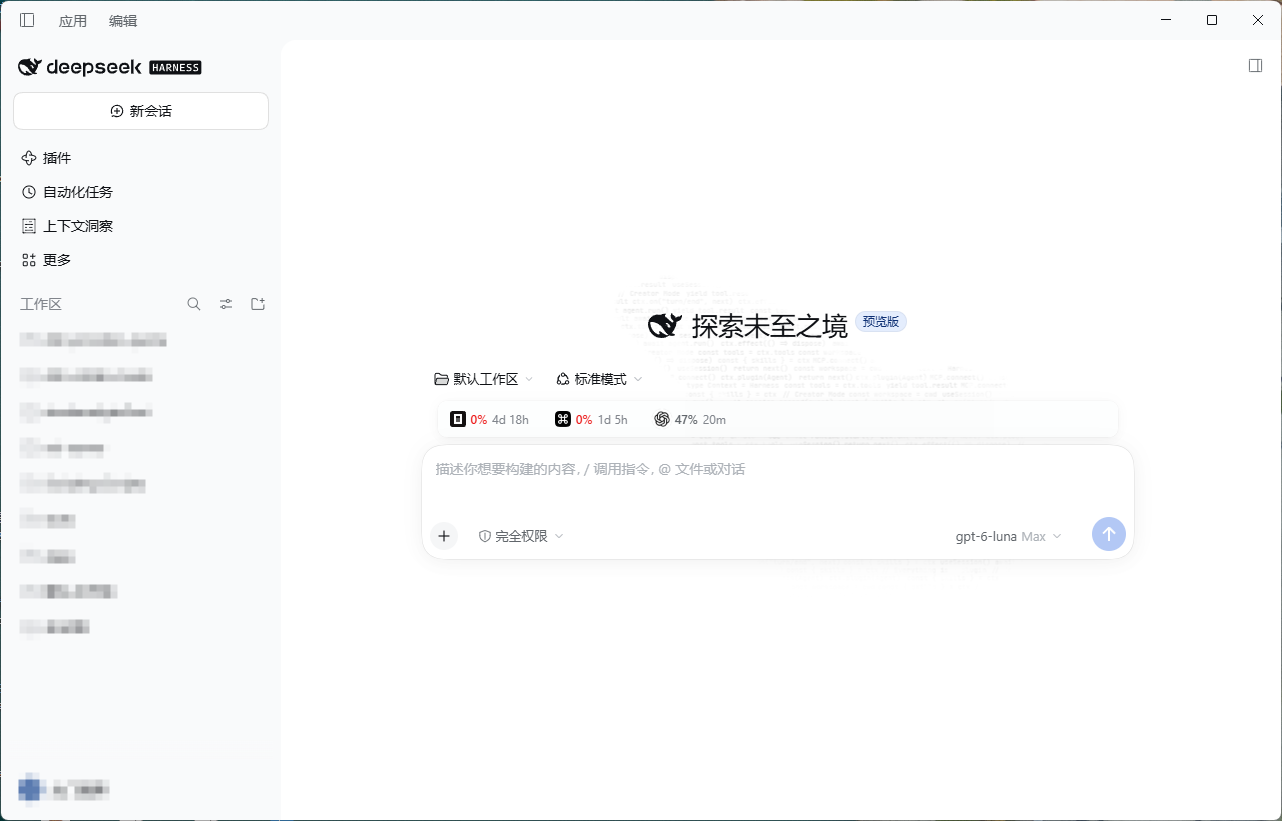
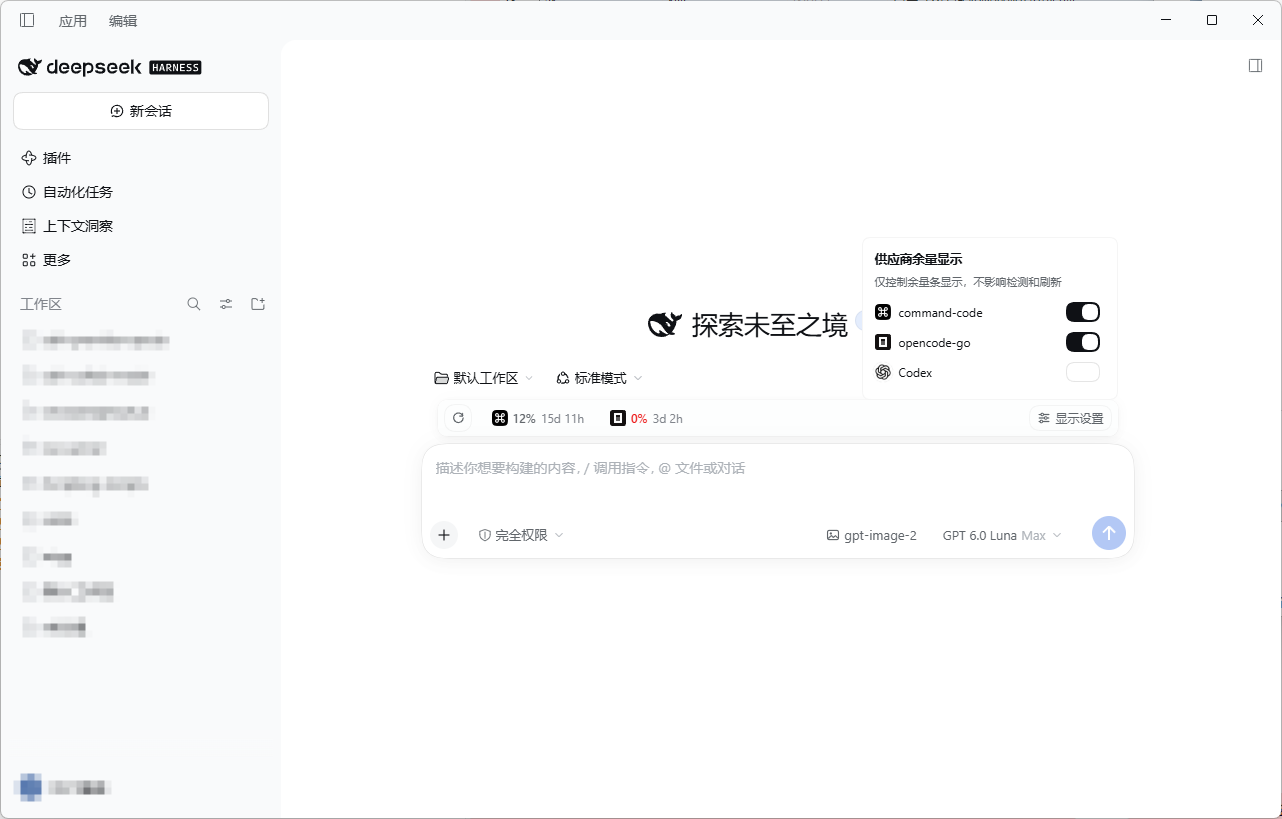
feat: add per-provider quota visibility toggles

diff --git a/client.js b/client.js
@@ -24,6 +24,8 @@ window.__ModuleLoader__.load({
     const NS = 'provider-quota'
     const STATE_PATH = '/provider-quota/state'
     const MIN_POLL_MS = 30_000
+    const PROVIDER_VISIBILITY_KEY = 'dsh-provider-quota:provider-visibility'
+    const LEGACY_LOCAL_VISIBILITY_KEY = 'dsh-provider-quota:local-provider-visibility'
 
     const copy = {
       zh: {
@@ -54,6 +56,11 @@ window.__ModuleLoader__.load({
         plan: '套餐 {tier}',
         fetched: '更新于 {time}',
         noWindows: '没有可显示的窗口',
+        providerDisplay: '显示设置',
+        providerQuotaTitle: '供应商余量显示',
+        providerQuotaHint: '仅控制余量条显示，不影响检测和刷新',
+        manageProviderDisplay: '管理供应商余量显示',
+        showProviderQuota: '显示 {provider} 余量',
       },
       en: {
         label: 'Quota',
@@ -83,6 +90,11 @@ window.__ModuleLoader__.load({
         plan: 'Plan {tier}',
         fetched: 'fetched {time}',
         noWindows: 'no windows to show',
+        providerDisplay: 'Display settings',
+        providerQuotaTitle: 'Provider quota display',
+        providerQuotaHint: 'Controls display only; detection and refresh are unchanged.',
+        manageProviderDisplay: 'Manage provider quota display',
+        showProviderQuota: 'Show {provider} quota',
       },
     }
 
@@ -254,6 +266,114 @@ window.__ModuleLoader__.load({
       fontSize: '12.5px',
       margin: '0 0 6px',
     }
+    const providerSettingsPanelStyle = {
+      position: 'absolute',
+      right: 0,
+      bottom: '100%',
+      zIndex: 41,
+      boxSizing: 'border-box',
+      width: '256px',
+      maxWidth: 'calc(100vw - 48px)',
+      maxHeight: 'min(70vh, 480px)',
+      overflowY: 'auto',
+      padding: '12px',
+      borderRadius: '10px',
+      border: '1px solid var(--dsw-alias-border-l1, rgba(127,127,127,0.28))',
+      background: 'var(--dsw-alias-bg-layer-1, #fff)',
+      color: 'var(--dsw-alias-label-secondary)',
+      fontSize: '12px',
+      lineHeight: '18px',
+      cursor: 'default',
+      userSelect: 'text',
+    }
+    const providerSettingsButtonStyle = {
+      position: 'relative',
+      zIndex: 1,
+      display: 'inline-flex',
+      alignItems: 'center',
+      gap: '5px',
+      marginLeft: 'auto',
+      padding: '4px 7px',
+      border: '1px solid var(--dsw-alias-border-l1, rgba(127,127,127,0.28))',
+      borderRadius: '999px',
+      background: 'transparent',
+      color: 'var(--dsw-alias-label-secondary)',
+      font: 'inherit',
+      lineHeight: '16px',
+      cursor: 'pointer',
+      whiteSpace: 'nowrap',
+    }
+    const refreshButtonStyle = {
+      position: 'relative',
+      zIndex: 1,
+      display: 'inline-flex',
+      alignItems: 'center',
+      justifyContent: 'center',
+      flex: '0 0 auto',
+      width: '28px',
+      height: '28px',
+      padding: 0,
+      border: '1px solid var(--dsw-alias-border-l1, rgba(127,127,127,0.28))',
+      borderRadius: '999px',
+      background: 'transparent',
+      color: 'var(--dsw-alias-label-secondary)',
+      cursor: 'pointer',
+    }
+    const providerSettingsHintStyle = {
+      margin: '0 0 8px',
+      color: 'var(--dsw-alias-label-secondary)',
+      fontSize: '11px',
+      lineHeight: '15px',
+    }
+    const providerSettingRowStyle = {
+      display: 'flex',
+      alignItems: 'center',
+      gap: '8px',
+      minHeight: '30px',
+    }
+    const providerSettingNameStyle = {
+      flex: '1 1 auto',
+      minWidth: 0,
+      overflowWrap: 'anywhere',
+      color: 'var(--dsw-alias-label-primary)',
+    }
+    const providerSwitchButtonStyle = {
+      display: 'inline-flex',
+      alignItems: 'center',
+      justifyContent: 'center',
+      flex: '0 0 auto',
+      width: '44px',
+      height: '28px',
+      padding: 0,
+      border: 0,
+      borderRadius: '999px',
+      background: 'transparent',
+      color: 'inherit',
+      cursor: 'pointer',
+    }
+    const providerSwitchTrackStyle = (enabled) => ({
+      display: 'inline-flex',
+      alignItems: 'center',
+      width: '34px',
+      height: '20px',
+      boxSizing: 'border-box',
+      padding: '2px',
+      border: enabled ? 0 : '1px solid var(--dsw-alias-border-l2, rgba(127,127,127,0.55))',
+      borderRadius: '999px',
+      background: enabled
+        ? 'var(--dsw-alias-brand-primary, #3d72f6)'
+        : 'var(--dsw-alias-bg-layer-2, rgba(127,127,127,0.28))',
+      transition: 'background-color 150ms ease-out',
+    })
+    const providerSwitchThumbStyle = (enabled) => ({
+      display: 'block',
+      width: '16px',
+      height: '16px',
+      borderRadius: '50%',
+      background: 'var(--dsw-alias-bg-layer-1, #fff)',
+      transform: enabled ? 'translateX(14px)' : 'translateX(0)',
+      transition: 'transform 150ms ease-out',
+    })
     const loadingBodyStyle = {
       position: 'relative',
       zIndex: 1,
@@ -517,7 +637,7 @@ window.__ModuleLoader__.load({
         onFocus: onOpen,
         onBlur: onClose,
         tabIndex: 0,
-        role: 'button',
+        role: 'group',
         title: entry.providerName ?? entry.provider,
         'aria-label': entry.providerName ?? entry.provider,
       },
@@ -555,14 +675,91 @@ window.__ModuleLoader__.load({
       return value
     }
 
+    function readVisibilityValue(raw) {
+      try {
+        const saved = JSON.parse(raw)
+        if (saved === null || typeof saved !== 'object' || Array.isArray(saved)) return null
+        const entries = Object.entries(saved)
+        if (entries.some(([provider, enabled]) => provider === '' || typeof enabled !== 'boolean')) return null
+        return Object.fromEntries(entries)
+      } catch {
+        return null
+      }
+    }
+
+    function readProviderVisibility() {
+      try {
+        const currentRaw = window.localStorage.getItem(PROVIDER_VISIBILITY_KEY)
+        if (currentRaw !== null) {
+          const current = readVisibilityValue(currentRaw)
+          if (current !== null) return current
+        }
+        const legacyRaw = window.localStorage.getItem(LEGACY_LOCAL_VISIBILITY_KEY)
+        return legacyRaw === null ? {} : (readVisibilityValue(legacyRaw) ?? {})
+      } catch {
+        // Storage can be disabled by browser policy; use the default display.
+        return {}
+      }
+    }
+
+    function persistProviderVisibility(value) {
+      try {
+        window.localStorage.setItem(PROVIDER_VISIBILITY_KEY, JSON.stringify(value))
+      } catch {
+        // Keep the in-memory toggle usable when storage is unavailable.
+      }
+    }
+
+    function ProviderVisibilitySettings({ providers, visibility, t, onToggle }) {
+      return h('div', {
+        style: providerSettingsPanelStyle,
+        role: 'dialog',
+        'aria-label': t('providerQuotaTitle'),
+        onClick: (event) => event.stopPropagation(),
+      },
+      h('div', { style: cardTitleStyle }, t('providerQuotaTitle')),
+      h('div', { style: providerSettingsHintStyle }, t('providerQuotaHint')),
+      providers.map((entry) => {
+        const provider = entry.provider
+        const enabled = visibility[provider] !== false
+        const name = entry.providerName ?? provider
+        return h('div', { key: provider, style: providerSettingRowStyle },
+          h(ProviderMark, { provider }),
+          h('span', { style: providerSettingNameStyle }, name),
+          h('button', {
+            type: 'button',
+            role: 'switch',
+            'aria-checked': enabled,
+            'aria-label': t('showProviderQuota', { provider: name }),
+            style: providerSwitchButtonStyle,
+            onClick: (event) => {
+              event.stopPropagation()
+              onToggle(provider)
+            },
+          },
+          h('span', { style: providerSwitchTrackStyle(enabled) },
+            h('span', { style: providerSwitchThumbStyle(enabled) }),
+          ),
+          ),
+        )
+      }),
+      )
+    }
+
     function QuotaBar({ t }) {
       const [view, setView] = React.useState({ phase: 'loading', providers: [], intervalSec: 60 })
+      const [providerVisibility, setProviderVisibility] = React.useState(readProviderVisibility)
+      const [providerSettingsOpen, setProviderSettingsOpen] = React.useState(false)
       const [nonce, setNonce] = React.useState(0)
       const [refreshing, setRefreshing] = React.useState(false)
       const [openProvider, setOpenProvider] = React.useState(null)
       const refreshRequestRef = React.useRef(false)
       const loadRef = React.useRef(null)
       const aliveRef = React.useRef(true)
+
+      React.useEffect(() => {
+        persistProviderVisibility(providerVisibility)
+      }, [providerVisibility])
 
       React.useEffect(() => {
         aliveRef.current = true
@@ -581,7 +778,9 @@ window.__ModuleLoader__.load({
             if (!aliveRef.current) return
             setRefreshing(false)
             setView((current) => (
-              current.phase === 'ready' ? current : { phase: 'error', providers: [], intervalSec: 60 }
+              current.phase === 'ready' || current.phase === 'empty'
+                ? current
+                : { phase: 'error', providers: [], intervalSec: 60 }
             ))
           }
         }
@@ -596,14 +795,24 @@ window.__ModuleLoader__.load({
       }, [nonce])
 
       React.useEffect(() => {
-        if (view.phase === 'empty') return undefined
+        // Keep polling while the row is hidden so newly available providers show up.
         const ms = Math.max(MIN_POLL_MS, view.intervalSec * 1000)
         const timer = setInterval(() => { void loadRef.current?.(false) }, ms)
         return () => { clearInterval(timer) }
       }, [view.phase, view.intervalSec])
 
-      // Close the hover card when the pointer leaves the whole row.
-      const onRowLeave = () => { setOpenProvider(null) }
+      // Close popovers when the pointer leaves the whole quota strip.
+      const onRowLeave = () => {
+        setOpenProvider(null)
+        setProviderSettingsOpen(false)
+      }
+      const toggleProviderVisibility = (provider) => {
+        setProviderVisibility((current) => ({
+          ...current,
+          [provider]: current[provider] === false,
+        }))
+        setOpenProvider(null)
+      }
 
       if (view.phase === 'empty') return null
       const refresh = () => {
@@ -665,17 +874,54 @@ window.__ModuleLoader__.load({
           ),
         )
       }
+      const providersToDisplay = view.providers.filter((entry) => (
+        providerVisibility[entry.provider] !== false
+      ))
+
       return h('div', { style: dockStyle },
         h('div', {
           style: rootStyle,
-          role: 'status',
+          role: 'group',
           title: t('refresh'),
           'aria-label': t('label'),
           onMouseLeave: onRowLeave,
           onClick: refresh,
         },
         h('div', { style: fillStyle, 'aria-hidden': true }),
-        view.providers.map((entry) => h(ProviderChip, {
+        h('button', {
+          type: 'button',
+          style: refreshButtonStyle,
+          title: t('refresh'),
+          'aria-label': t('refresh'),
+          onClick: (event) => {
+            event.stopPropagation()
+            refresh()
+          },
+        },
+        h('svg', {
+          width: 14,
+          height: 14,
+          viewBox: '0 0 16 16',
+          fill: 'none',
+          'aria-hidden': true,
+          focusable: false,
+        },
+        h('path', {
+          d: 'M13.5 5.4A5.5 5.5 0 1 0 14 8',
+          stroke: 'currentColor',
+          strokeWidth: 1.4,
+          strokeLinecap: 'round',
+        }),
+        h('path', {
+          d: 'M13.1 2.8v3.1H10',
+          stroke: 'currentColor',
+          strokeWidth: 1.4,
+          strokeLinecap: 'round',
+          strokeLinejoin: 'round',
+        }),
+        ),
+        ),
+        providersToDisplay.map((entry) => h(ProviderChip, {
           key: entry.provider,
           entry,
           t,
@@ -683,6 +929,49 @@ window.__ModuleLoader__.load({
           onOpen: () => { setOpenProvider(entry.provider) },
           onClose: () => { setOpenProvider((current) => (current === entry.provider ? null : current)) },
         })),
+        view.providers.length > 0
+          ? h('button', {
+            type: 'button',
+            style: providerSettingsButtonStyle,
+            title: t('manageProviderDisplay'),
+            'aria-label': t('manageProviderDisplay'),
+            'aria-expanded': providerSettingsOpen,
+            'aria-haspopup': 'dialog',
+            onClick: (event) => {
+              event.stopPropagation()
+              setOpenProvider(null)
+              setProviderSettingsOpen((open) => !open)
+            },
+          },
+          h('svg', {
+            width: 14,
+            height: 14,
+            viewBox: '0 0 16 16',
+            fill: 'none',
+            'aria-hidden': true,
+            focusable: false,
+          },
+          h('path', {
+            d: 'M2.5 4h11M2.5 8h11M2.5 12h11',
+            stroke: 'currentColor',
+            strokeWidth: 1.4,
+            strokeLinecap: 'round',
+          }),
+          h('circle', { cx: 6, cy: 4, r: 1.4, fill: 'var(--dsw-alias-bg-layer-1, #fff)', stroke: 'currentColor', strokeWidth: 1.2 }),
+          h('circle', { cx: 10, cy: 8, r: 1.4, fill: 'var(--dsw-alias-bg-layer-1, #fff)', stroke: 'currentColor', strokeWidth: 1.2 }),
+          h('circle', { cx: 5, cy: 12, r: 1.4, fill: 'var(--dsw-alias-bg-layer-1, #fff)', stroke: 'currentColor', strokeWidth: 1.2 }),
+          ),
+          h('span', null, t('providerDisplay')),
+          )
+          : null,
+        providerSettingsOpen && view.providers.length > 0
+          ? h(ProviderVisibilitySettings, {
+            providers: view.providers,
+            visibility: providerVisibility,
+            t,
+            onToggle: toggleProviderVisibility,
+          })
+          : null,
         ),
       )
     }
